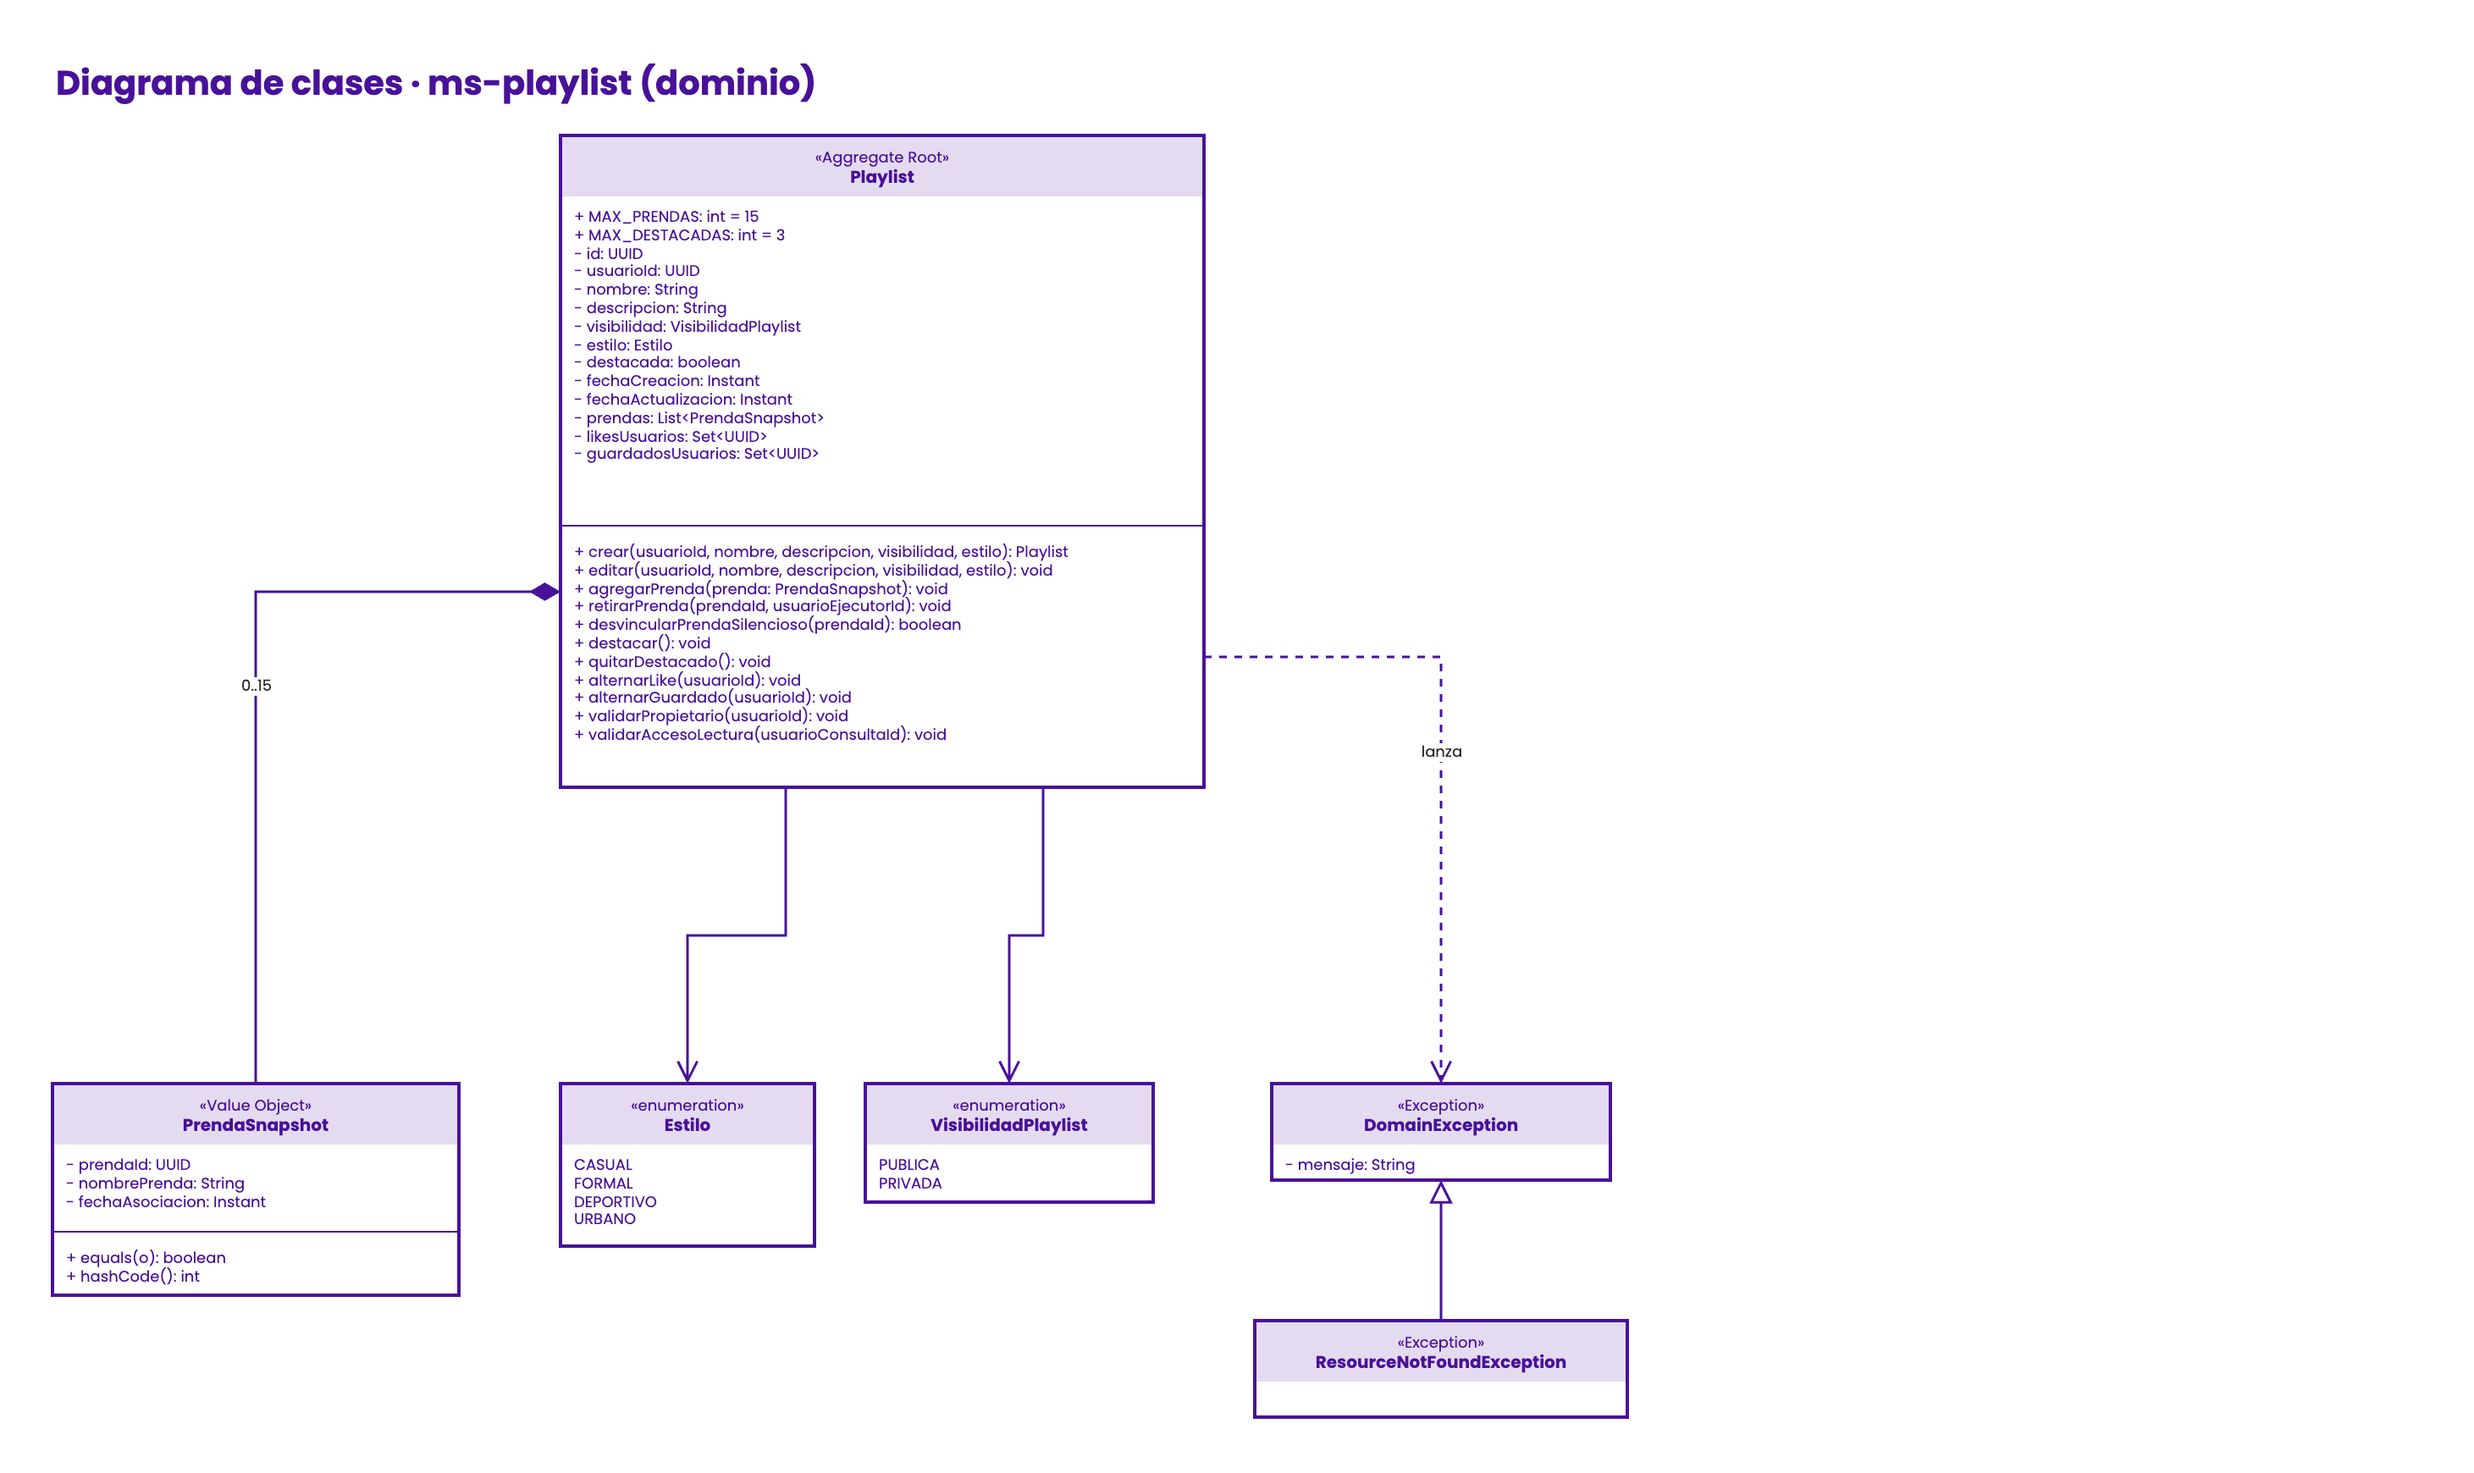
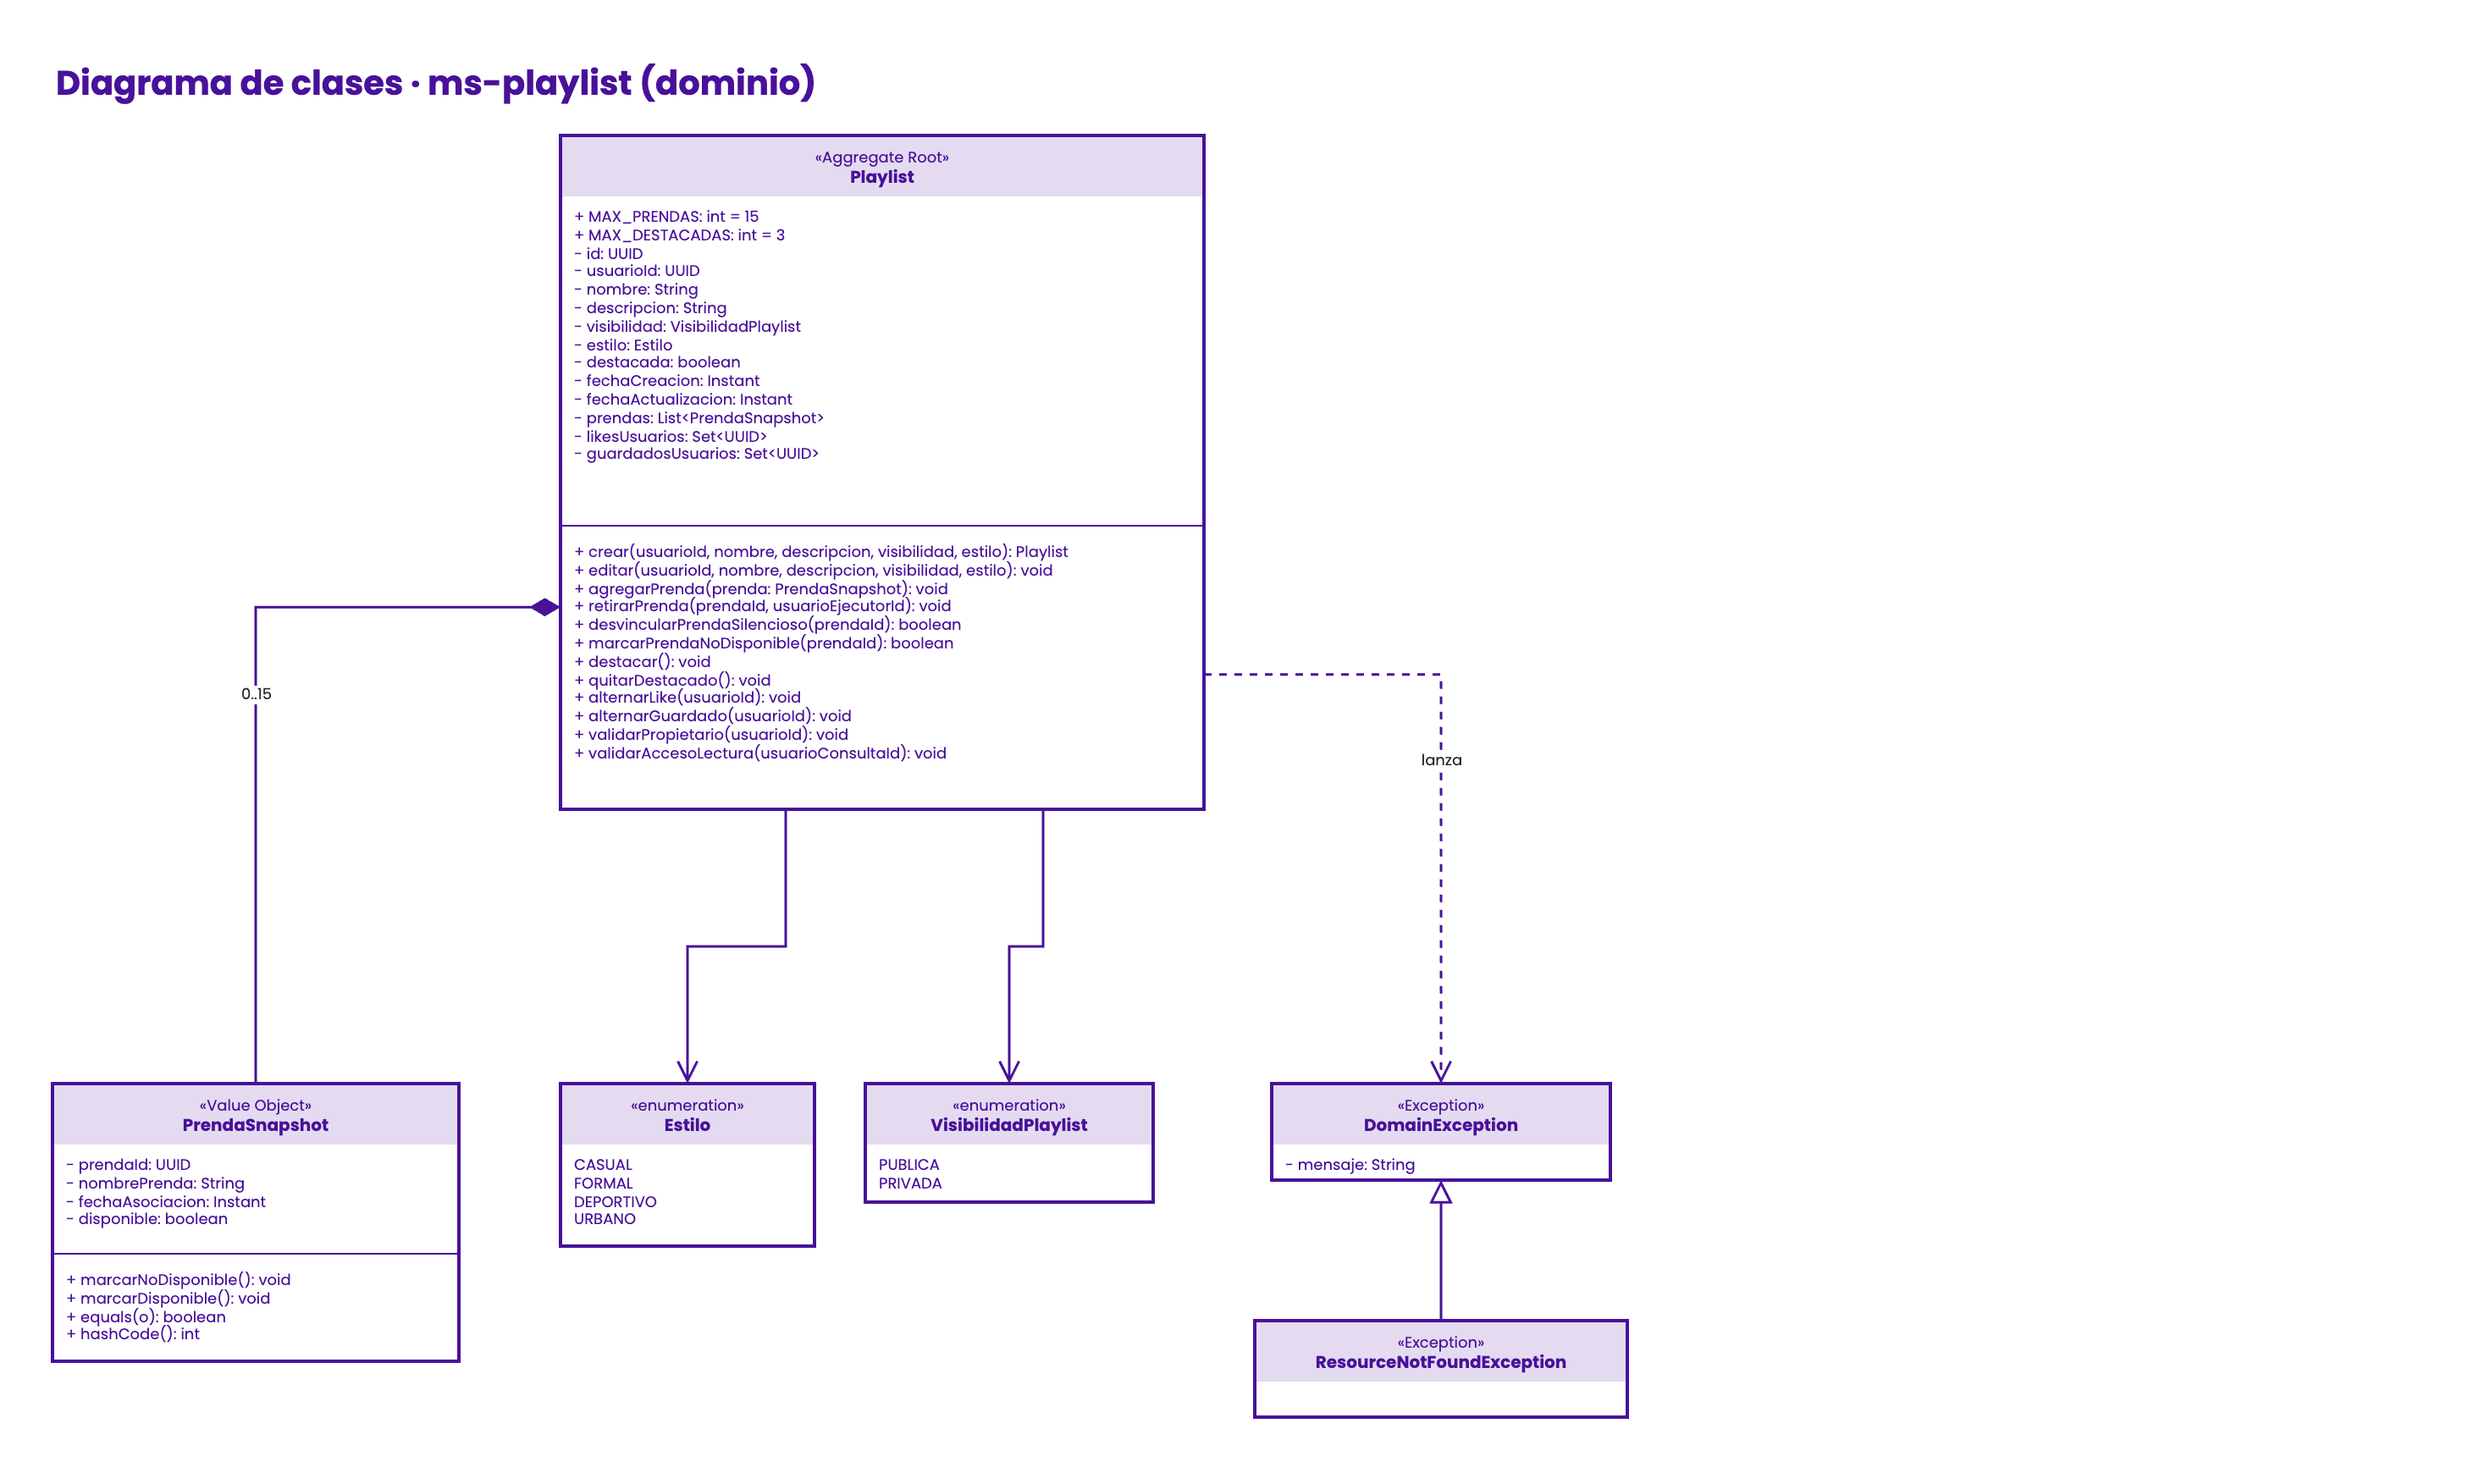
docs: reflect styleradar.exchange and prenda availability in playlist diagrams

diff --git a/README.md b/README.md
@@ -203,7 +203,7 @@ El diagrama muestra los cuatro microservicios del paquete Catálogo y cómo se r
   </table>
 </div>
 
-El diagrama muestra el servicio en arquitectura hexagonal. Las peticiones llegan desde el API Gateway al controller REST de playlists y los eventos del catálogo llegan por RabbitMQ a `CatalogoEventsConsumer` (adaptadores de entrada), que solo conocen los casos de uso (puertos de entrada): crear, consultar, interactuar, destacar y asociar prendas, cada uno con su implementación. La lógica de aplicación usa los puertos de salida para guardar las playlists en PostgreSQL 16 (`PlaylistRepositoryPort`) y publicar sus eventos en RabbitMQ (`PlaylistEventPublisherPort`). El archivo editable está en `docs/evidencias/DiagramaComponentesPlaylist.drawio`. Las dependencias apuntan hacia adentro, por lo que el dominio no conoce Spring, JPA ni HTTP.
+El diagrama muestra el servicio en arquitectura hexagonal. Las peticiones llegan desde el API Gateway al controller REST de playlists y el evento `styleradar.catalogo.prenda.retirada` llega por RabbitMQ a `CatalogoEventsConsumer` (adaptadores de entrada), que solo conocen los casos de uso (puertos de entrada): crear, consultar, interactuar, destacar y asociar prendas, cada uno con su implementación. La lógica de aplicación usa los puertos de salida para guardar las playlists en PostgreSQL 16 (`PlaylistRepositoryPort`) y publicar sus eventos en el exchange `styleradar.exchange` de RabbitMQ (`PlaylistEventPublisherPort`); los mensajes que fallan pasan por `styleradar.dlx` a la cola `styleradar.playlist.dlq`. El archivo editable está en `docs/evidencias/DiagramaComponentesPlaylist.drawio`. Las dependencias apuntan hacia adentro, por lo que el dominio no conoce Spring, JPA ni HTTP.
 
 ### Diagrama de Clases
 
@@ -223,7 +223,7 @@ El diagrama muestra el servicio en arquitectura hexagonal. Las peticiones llegan
   </table>
 </div>
 
-El agregado principal es `Playlist`, que guarda el nombre, la descripción, la `VisibilidadPlaylist` (pública o privada), el `Estilo` (casual, formal, deportivo o urbano) y hasta 15 prendas asociadas como `PrendaSnapshot`, una copia del nombre de la prenda tomada del catálogo. Los métodos del agregado cubren crear, destacar y quitar de destacadas (SR-RF-72), asociar y retirar prendas (SR-RF-70), y alternar el me gusta y el guardado de cada usuario (SR-RF-71). Antes de modificar o mostrar una playlist se valida que el usuario sea su dueño o que la playlist sea pública. Los errores de negocio heredan de `DomainException`. El archivo editable está en `docs/evidencias/DiagramaClasesPlaylist.drawio`.
+El agregado principal es `Playlist`, que guarda el nombre, la descripción, la `VisibilidadPlaylist` (pública o privada), el `Estilo` (casual, formal, deportivo o urbano) y hasta 15 prendas asociadas como `PrendaSnapshot`, una copia del nombre de la prenda tomada del catálogo que se marca como no disponible cuando la prenda sale del catálogo. Los métodos del agregado cubren crear, destacar y quitar de destacadas (SR-RF-72), asociar y retirar prendas (SR-RF-70), y alternar el me gusta y el guardado de cada usuario (SR-RF-71). Antes de modificar o mostrar una playlist se valida que el usuario sea su dueño o que la playlist sea pública. Los errores de negocio heredan de `DomainException`. El archivo editable está en `docs/evidencias/DiagramaClasesPlaylist.drawio`.
 
 ### Diagrama de Base de Datos
 
@@ -243,7 +243,7 @@ El agregado principal es `Playlist`, que guarda el nombre, la descripción, la `
   </table>
 </div>
 
-Se usa PostgreSQL porque las playlists, sus prendas y las interacciones de los usuarios tienen relaciones fijas. La tabla `playlists` guarda los datos de cada playlist y si está destacada; `playlist_prendas` guarda las prendas asociadas, y `playlist_likes` y `playlist_guardados` registran qué usuarios dieron me gusta o guardaron cada playlist, todas en relación uno a muchos con `playlists`. Las prendas y los usuarios se guardan solo por su identificador, ya que pertenecen a otros servicios (*Database-per-Service*). El archivo editable está en `docs/evidencias/DiagramaEntidadRelacionPlaylist.drawio`.
+Se usa PostgreSQL porque las playlists, sus prendas y las interacciones de los usuarios tienen relaciones fijas. La tabla `playlists` guarda los datos de cada playlist y si está destacada; `playlist_prendas` guarda las prendas asociadas y si siguen disponibles, y `playlist_likes` y `playlist_guardados` registran qué usuarios dieron me gusta o guardaron cada playlist, todas en relación uno a muchos con `playlists`. Las prendas y los usuarios se guardan solo por su identificador, ya que pertenecen a otros servicios (*Database-per-Service*). El archivo editable está en `docs/evidencias/DiagramaEntidadRelacionPlaylist.drawio`.
 
 ### Diagramas de Secuencia
 
